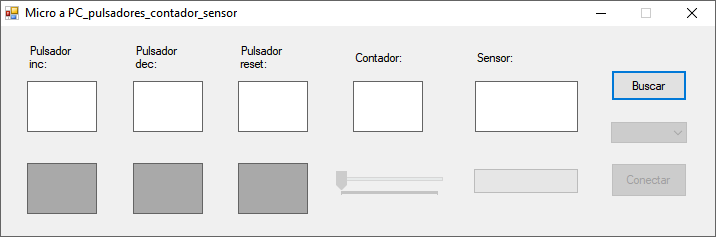
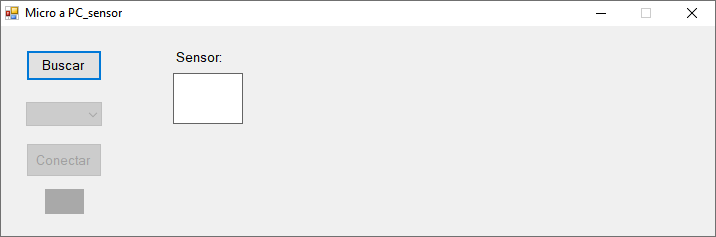
305

diff --git a/Microcontroladores/1 - Arduino/1 - Arduino/11.1 RS-232.html b/Microcontroladores/1 - Arduino/1 - Arduino/11.1 RS-232.html
@@ -22,10 +22,10 @@
 			<br><br>
 			<b><i>Programa Sharp Develop</i></b>
 			<br><br>
-			<img src="../../img/11.1.1 Micro a PC_boolean_1.png" alt="" width="auto" height="auto">
+			<img src="../../img/11.1.1 Micro a PC_pulsador_1.png" alt="" width="auto" height="auto">
 			<br><br>
-			
-		  <br><br><br>
+			<img src="../../img/11.1.1 Micro a PC_pulsador_2.png" alt="" width="auto" height="auto">
+		  	<br><br><br>
 			<a id="Micro a PC_contador"></a>
  			<b><i>11.1.2 Micro a PC_contador</i></b>
 			<br><br>
@@ -35,8 +35,9 @@
 			<br><br>
 			<b><i>Programa Sharp Develop</i></b>
 			<br><br>
-			<img src="../../img/11.1.2%20Micro%20a%20PC_pulsadores_contador.png" alt="" width="auto" height="auto">
+			<img src="../../img/11.1.2 Micro a PC_contador_1.png" alt="" width="auto" height="auto">
 			<br><br>
+			<img src="../../img/11.1.2 Micro a PC_contador_2.png" alt="" width="auto" height="auto">
 			<br><br><br>
 			<a id="Micro a PC_sensor"></a>
 	 		<b><i>11.1.3 Micro a PC_sensor</i></b>
@@ -47,8 +48,9 @@
 			<br><br>
 			<b><i>Programa Sharp Develop</i></b>
 			<br><br>
-			<img src="../../img/11.1.3%20Micro%20a%20PC_pulsadores_contador_sensor_1.png" alt="" width="auto" height="auto">
+			<img src="../../img/11.1.3 Micro a PC_sensor_1.png" alt="" width="auto" height="auto">
 			<br><br>
+			<img src="../../img/11.1.3 Micro a PC_sensor_2.png" alt="" width="auto" height="auto">
 			<br><br><br>
 			<a id="PC a micro_bits"></a>
 			<b><i>11.1.4 PC a micro_bits</i></b>
